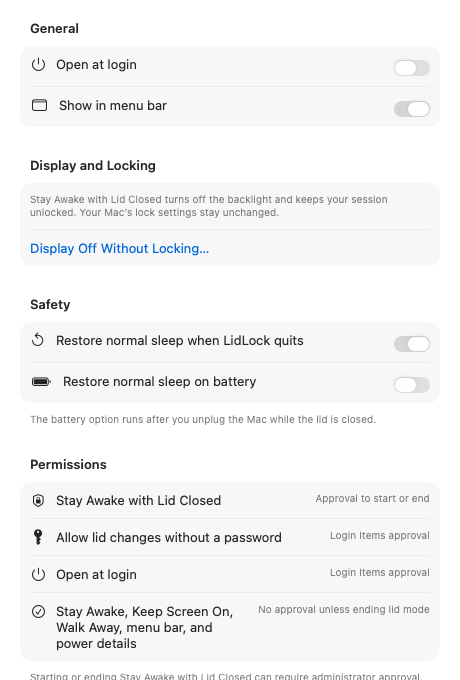
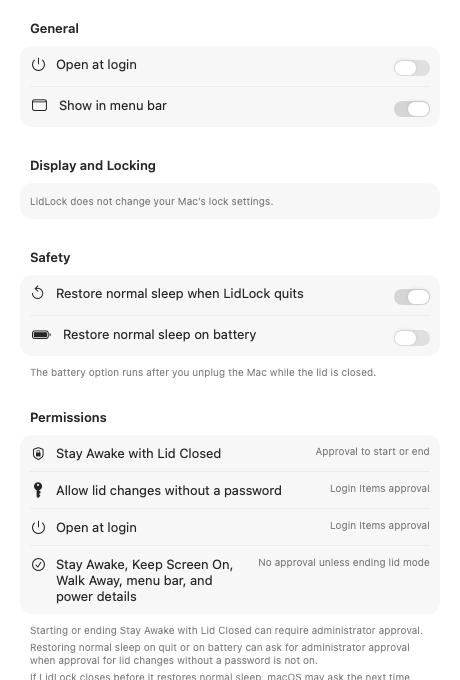
Publish LidLock 1.2.5 copy cleanup

diff --git a/README.md b/README.md
@@ -24,8 +24,8 @@ Published by DelPage Technologies.
 ## Free Download
 
 - [Download LidLock.dmg](https://github.com/DelPage/lidlock/releases/latest/download/LidLock.dmg)
-- Current version: **1.2.4**
[1 lines of base64/hex data omitted]
+- Current version: **1.2.5**
[1 lines of base64/hex data omitted]
 
 LidLock requires **macOS 13 Ventura or newer**. DelPage signs the app with
 Apple Developer ID, and Apple notarizes it.
@@ -57,9 +57,6 @@ The display session stays awake internally. Turning off the backlight saves
 power, but running tasks still use battery. Your Mac’s lock settings stay
 unchanged. You can still lock the Mac yourself, and LidLock does not unlock an
 already locked Mac.
-
-**Display Off Without Locking…** explains this behavior in the main window,
-menu bar, and Settings. There is no password setting to change.
 
 ## Permissions
 

diff --git a/GETTING_STARTED.md b/GETTING_STARTED.md
@@ -4,7 +4,7 @@ LidLock is a macOS menu bar utility for controlling when your Mac and display
 sleep. It is free to use, requires no account, and does not collect personal
 information.
 
-The current public download is version 1.2.4.
+The current public download is version 1.2.5.
 
 ## Install LidLock
 
@@ -54,9 +54,6 @@ The display session stays awake internally. Turning off the backlight saves
 power, but running tasks still use battery. Your Mac’s lock settings stay
 unchanged. You can still lock the Mac yourself, and LidLock does not unlock an
 already locked Mac.
-
-**Display Off Without Locking…** explains this behavior in the main window,
-menu bar, and Settings. There is no password setting to change.
 
 ## Permissions and Approvals
 

diff --git a/CHANGELOG.md b/CHANGELOG.md
@@ -3,6 +3,18 @@
 This changelog records current and retired LidLock releases. Downloads are
 available only for versions shown in GitHub Releases.
 
+## 1.2.5, 2026-10-21
+
+- Removed the extra Display Off Without Locking help link and popup.
+- Shortened the closed-lid description and approval messages.
+- Removed repeated guidance from Settings and the setup guide.
+- Sleep and lock behavior are unchanged.
+
+Artifact:
+
+- `LidLock.dmg`
[1 lines of base64/hex data omitted]
+
 ## 1.2.4, 2026-10-21
 
 - Fixed the existing closed-lid mode to keep the session unlocked without changing Lock Screen settings.

diff --git a/release-notes/v1.2.5.md b/release-notes/v1.2.5.md
@@ -1,0 +1,7 @@
+LidLock 1.2.5 removes the extra Display Off Without Locking help link and popup from the window, menu bar, and Settings.
+
+The closed-lid description and approval messages are shorter. Sleep and lock behavior are unchanged.
+
+The attached LidLock.dmg carries an Apple Developer ID signature and Apple notarization.
+
[1 lines of base64/hex data omitted]
